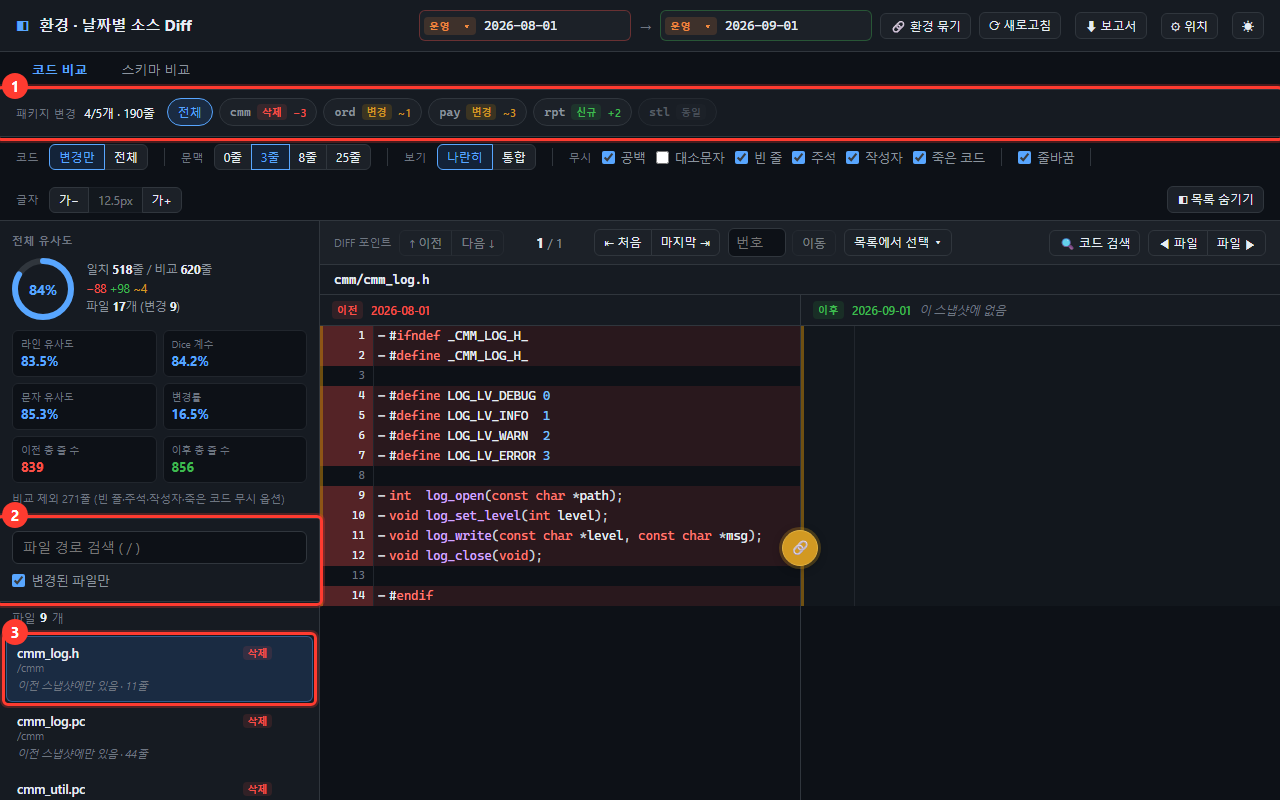
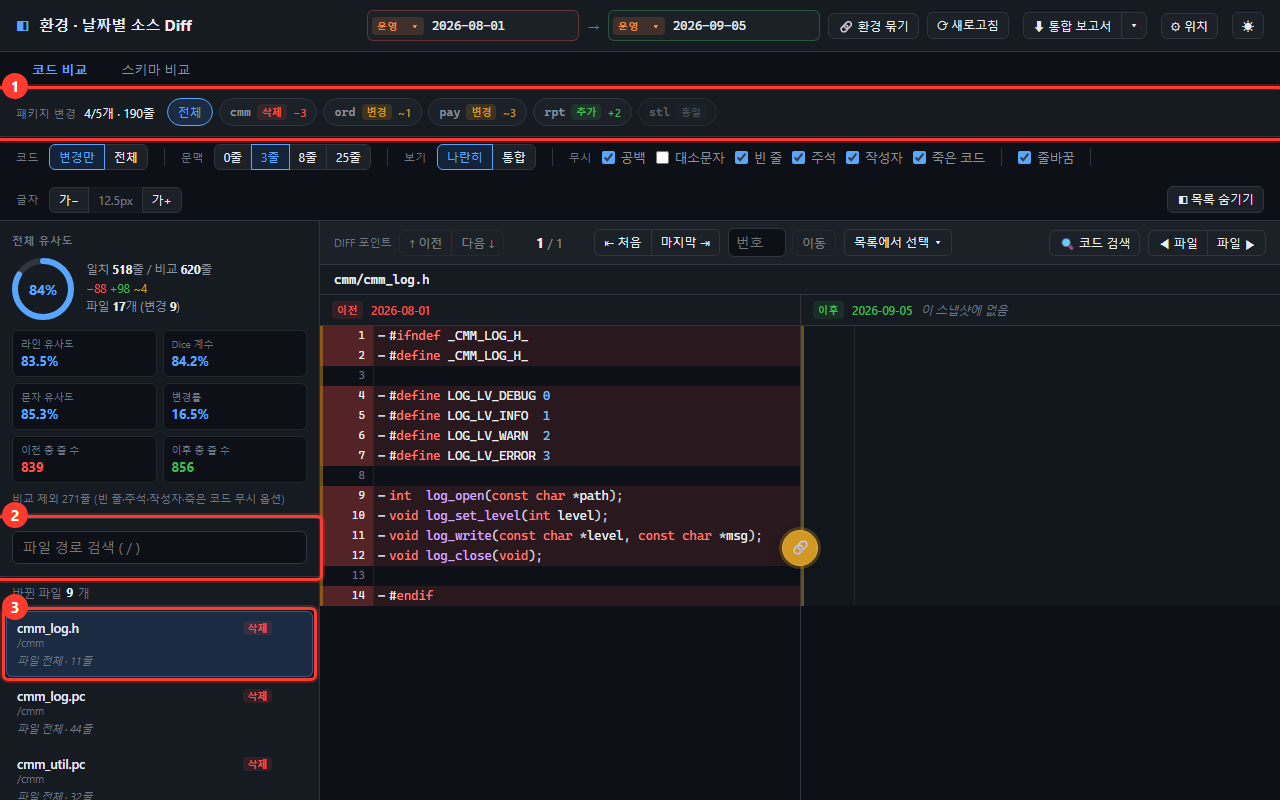
docs: 변경 이력 · 보고서 종류 · 범례 · 동일 접기 · 다시 접기를 문서에 반영하고 그림을 다시 찍는다
사용설명서와 README 가 체크박스 · 신규/수정 · 날짜만 늘어놓은 목록 같은 예전 화면을 설명하고 있었다.

- 사용설명서: 2장 변경 이력으로 고르기(10-dates 그림 추가) · 키보드 · 날짜 직접 제한, 4장 동일 접힘 줄,
  5-1 다시 접기, 7장 범례와 말 칩, 8장 보고서 종류와 표 모양, 10장 문제 해결 표.
- README: 날짜 목록 · 보고서 · 예시 폴더(배포 없던 날) 절.
- 촬영 스크립트: 새 장면(보고서 메뉴 · 날짜 목록)과 저장값 초기화, 그림 01–10 을 다시 찍는다.

diff --git a/scripts/shot.html b/scripts/shot.html
@@ -61,6 +61,8 @@
         // 앞선 촬영이 남긴 값이 다음 장면으로 새면 엉뚱한 화면을 찍는다 — 매번 못 박는다
         localStorage.setItem('cd-mode', mode)
         localStorage.removeItem('cd-env-linked')
+        localStorage.removeItem('cd-report-kind')
+        localStorage.removeItem('cd-date-list')
         localStorage.removeItem('cd-my-exclude')
         localStorage.removeItem('cd-my-exclude-schema')
         localStorage.removeItem('cd-schema-kinds')
@@ -171,6 +173,7 @@
           mark(doc, byText(doc, '.optionbar .group', '종류'), 4, 4)
           mark(doc, '.filelist', 5, 4)
           mark(doc, '.schema-view .schema-section', 6, 4)
+          mark(doc, '.schema-legend', 7, 3)
         },
 
         /* 7. 제외 목록으로 접어 둔 파일 — 펼친 상태로 찍는다 */
@@ -185,10 +188,30 @@
           mark(doc, folded, 2, 4)
         },
 
-        /* 9. 보고서 내려받기 — 버튼 자리. 비교가 끝나 버튼이 살아난 뒤에 찍는다 */
+        /* 9. 보고서 내려받기 — 본 버튼(지금 탭의 보고서)과 ▾ 메뉴(소스 · 스키마 · 통합).
+              비교가 끝나 버튼이 살아난 뒤 메뉴를 펼쳐 찍는다 */
         async report(doc) {
-          await until(() => !byText(doc, 'button', '보고서')?.disabled)
-          mark(doc, byText(doc, 'button', '보고서'), 1, 4)
+          const main = '.report-split .btn:not(.report-caret)'
+          await until(() => !doc.querySelector(main)?.disabled)
+          doc.querySelector('.report-caret')?.click()
+          await until(() => doc.querySelector('.report-menu'))
+          await sleep(300)
+          mark(doc, main, 1, 3)
+          mark(doc, '.report-caret', 2, 3)
+          mark(doc, '.report-menu', 3, 4)
+        },
+
+        /* 10. 날짜 고르기 목록 — 왼쪽 칸을 열어 변경 이력(이전 → 이후 한 쌍씩)이 들어온 뒤 찍는다 */
+        async dates(doc) {
+          const input = doc.querySelector('.pick.left input')
+          await until(() => !input.disabled)
+          input.click()
+          await until(() => doc.querySelector('.date-menu .date-row.k-changed'))
+          await sleep(300)
+          const segs = doc.querySelectorAll('.date-menu .date-tools .seg')
+          mark(doc, segs[0], 1, 3)
+          mark(doc, segs[1], 2, 3)
+          mark(doc, '.date-menu .date-row.k-changed', 3, 2)
         },
 
         /* 6. 코드 비교 화면 */
